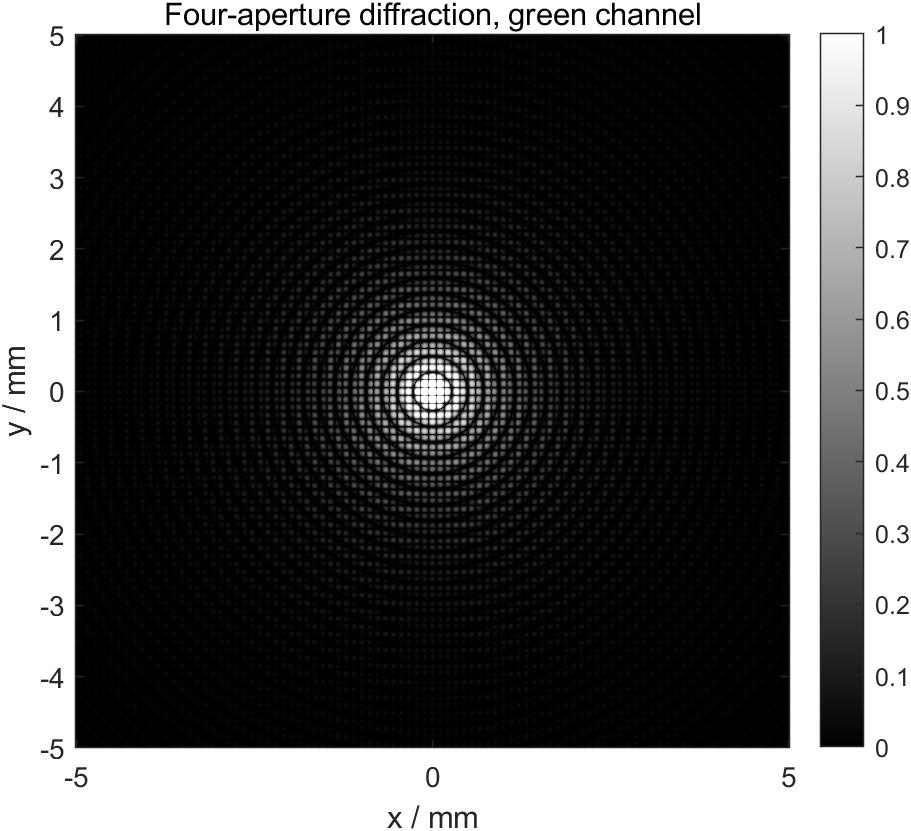
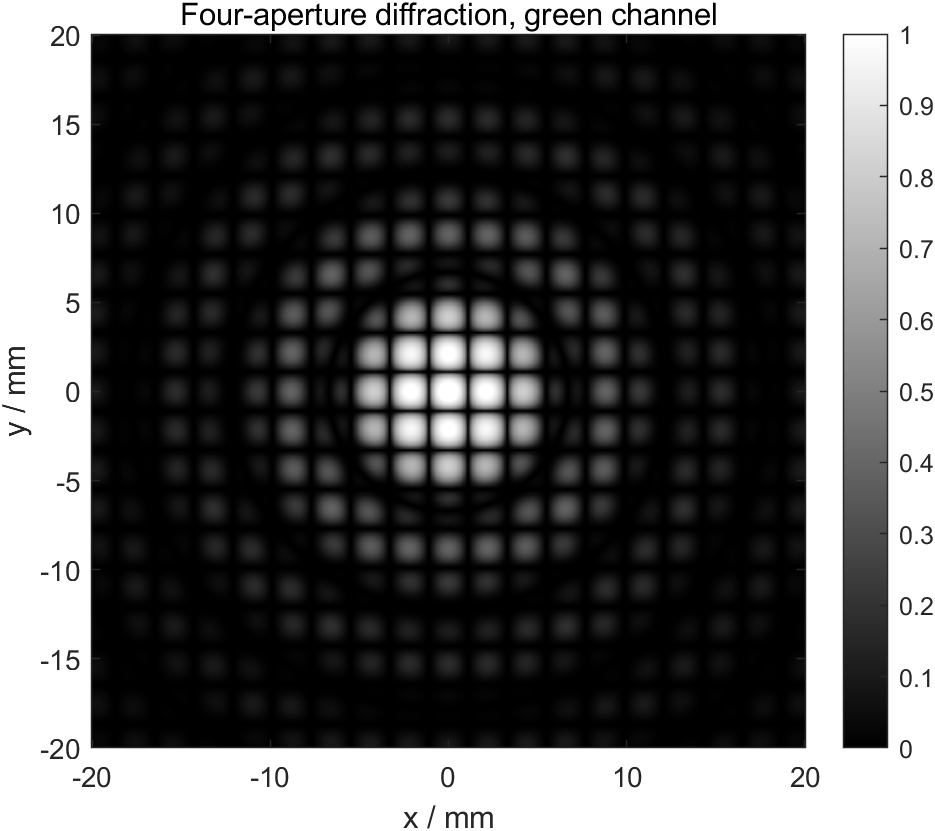
修改尺寸至微米尺寸

diff --git a/src/CustomAperture_fraunhofer_fft.m b/src/CustomAperture_fraunhofer_fft.m
@@ -4,15 +4,15 @@ clear, clc, close all
 % 定义波长，e-9代表纳米
 lambdalist = [620e-9,550e-9,450e-9];
 % 传播距离,模拟人眼视距2~40cm
-z = 0.4;
+z = 0.2;
 % 设定物面单元尺寸
-objectunit = 1e-3;
+objectunit = 1e-6;
 % 设定像面单元尺寸
 Imageunit = 1e-3;
 % 设定周期尺寸,直观单位微米
-Pitch = 2*objectunit;
+Pitch = 50*objectunit;
 % 圆孔半径,e-6代表μm
-r = 0.5*objectunit;
+r = 10*objectunit;
 % 定义物面的光栅类型
 % flag=0代表使用相同离散矩阵（自定义的形状或者图片）
 % flag=1代表使用不相同的离散矩阵
@@ -26,11 +26,11 @@ nn = 1000;
 Nx_period = 2;         
 Ny_period = 2;         
 % 设定目标像面单边尺寸，直观单位mm
-Fx =5e-3;
-Fy =5e-3;
+Fx =20*Imageunit;
+Fy =20*Imageunit;
 % 设定物体在像面的尺寸，直观单位mm
-F_size_x = 20e-3;   % F在像面上的物理宽度
-F_size_y = 20e-3;   % F在像面上的物理高度
+F_size_x = 20*Imageunit;   % F在像面上的物理宽度
+F_size_y = 20*Imageunit;   % F在像面上的物理高度
 %设定目标角，用于寻找指定角度之外和之内的强度和，单位是°，黄度是2.5°
 Angle = 2.5;
 % 计算目标角对应传播距离下的长度
